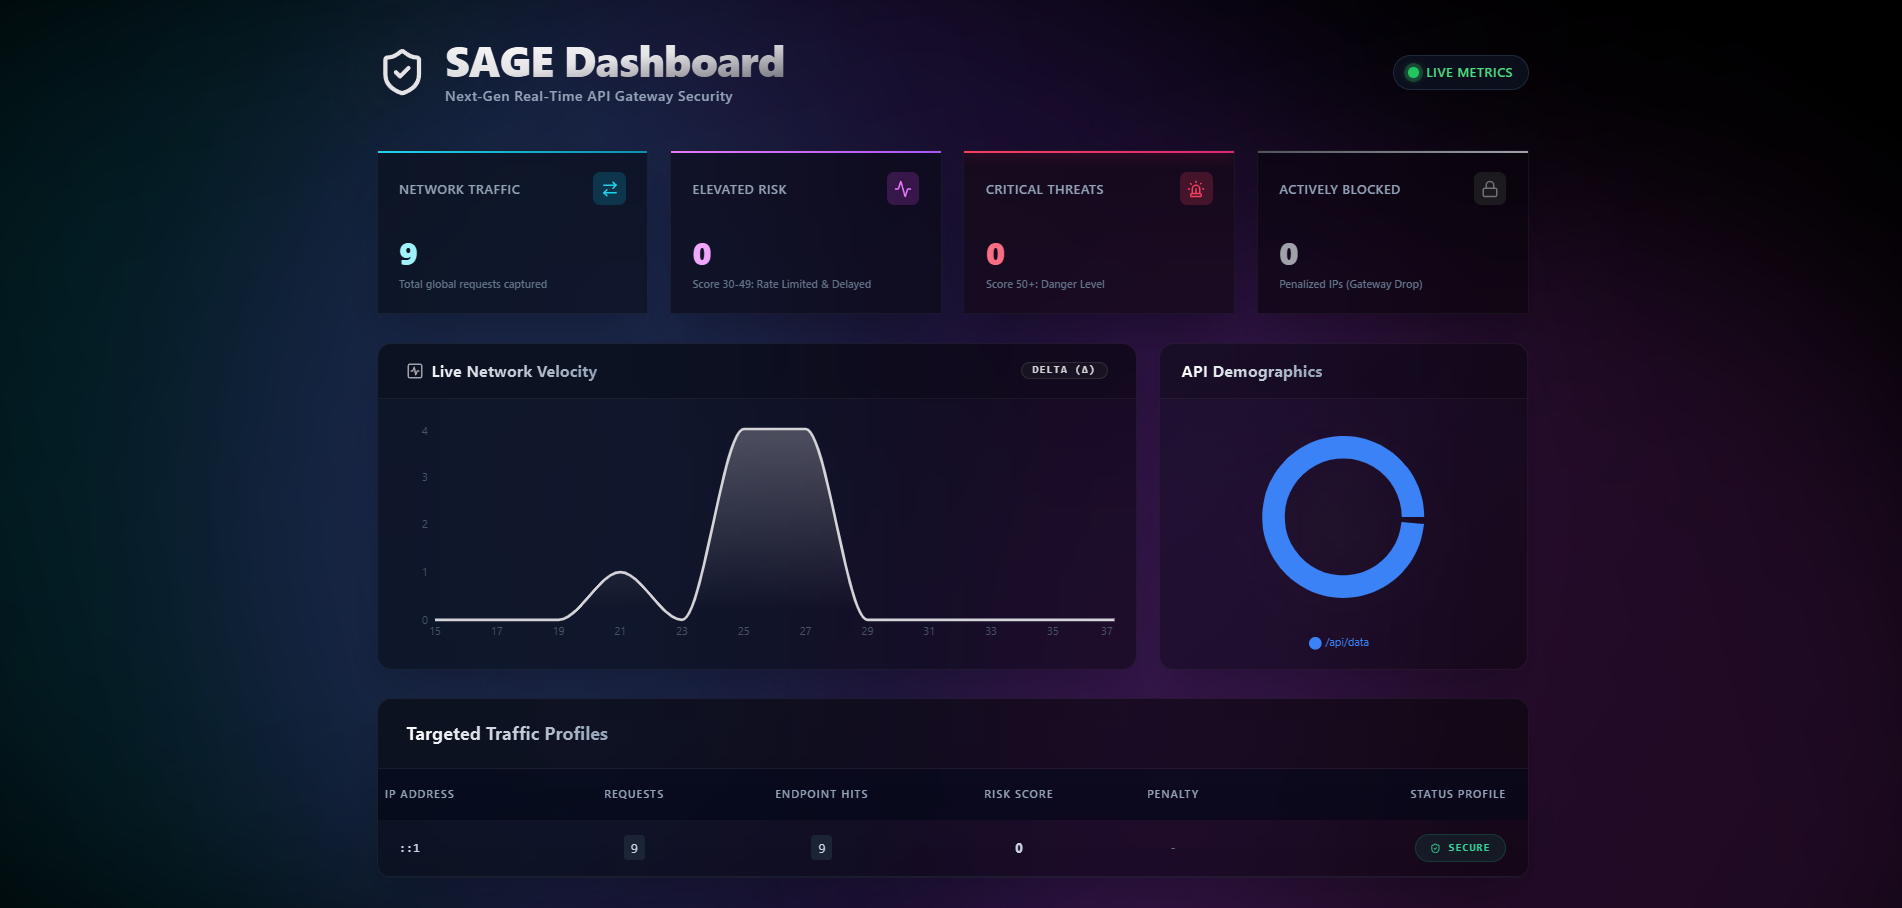
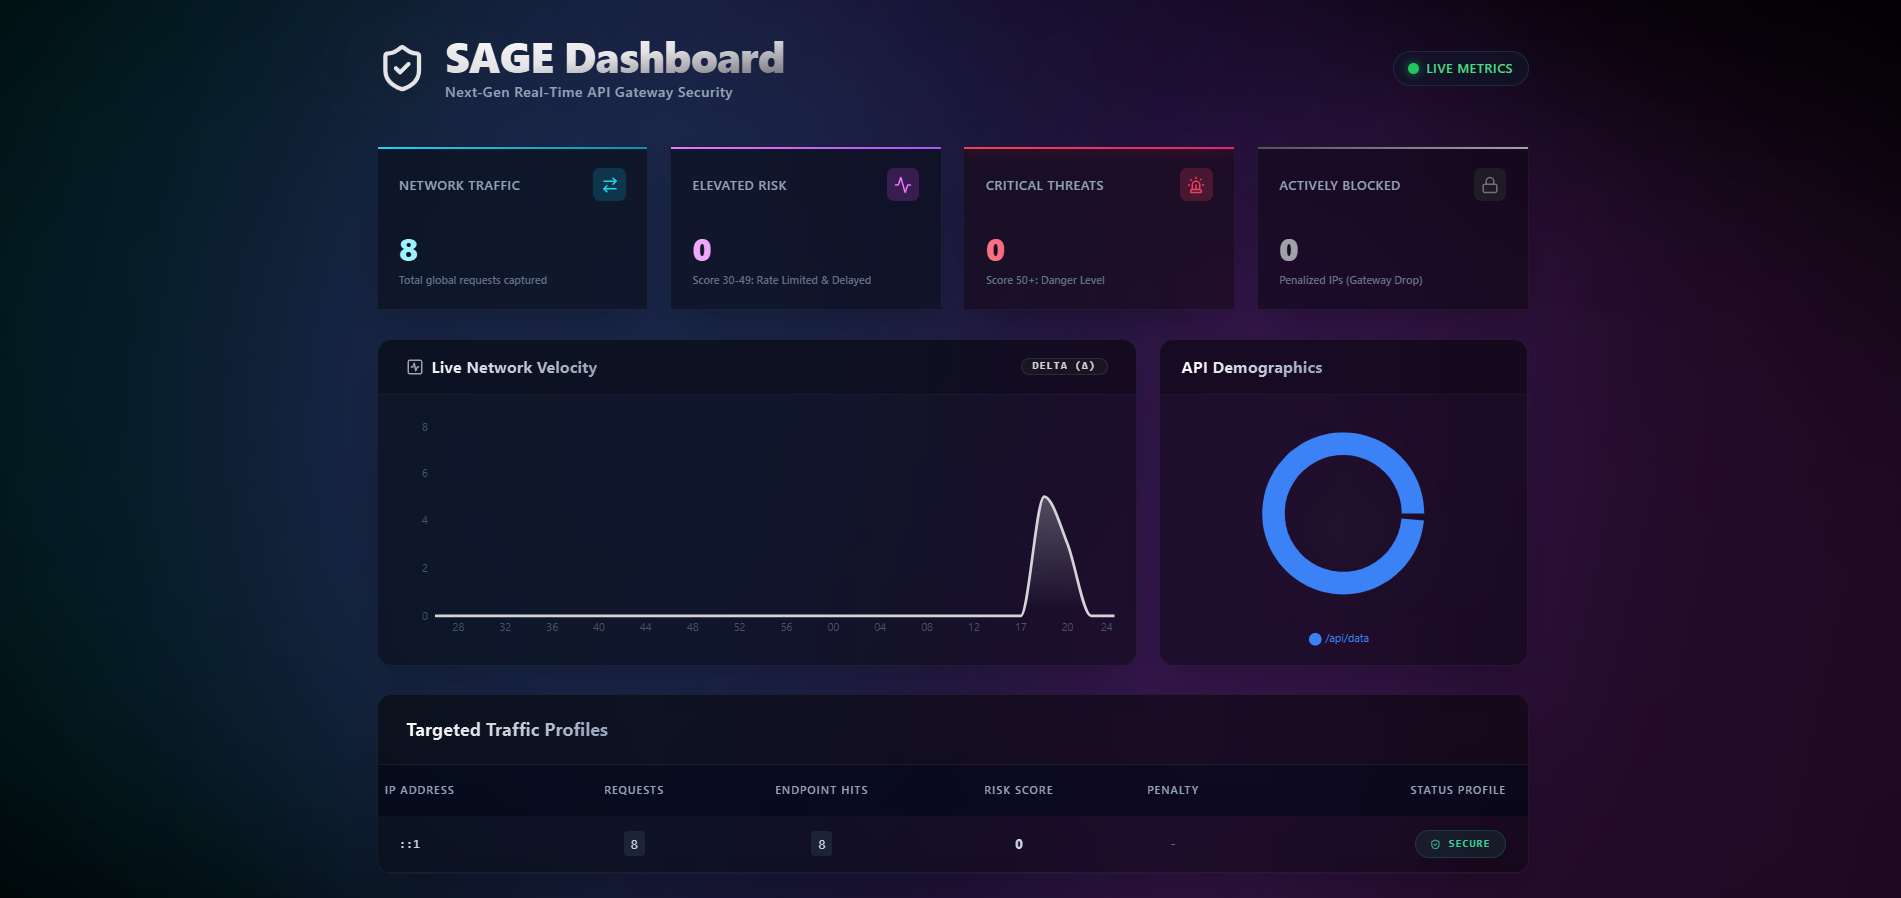
Added new files for README and traffic testing

diff --git a/test_traffic.js b/test_traffic.js
@@ -1,0 +1,40 @@
+const http = require('http');
+
+const endpoints = [
+    '/api/data',
+    '/api/unknown',
+    '/api/test',
+    '/'
+];
+
+const sendRequest = () => {
+    const endpoint = endpoints[Math.floor(Math.random() * endpoints.length)];
+    const options = {
+        hostname: 'localhost',
+        port: 3000,
+        path: endpoint,
+        method: 'GET',
+        headers: {
+            'User-Agent': Math.random() > 0.8 ? 'bot-tester' : 'Mozilla/5.0'
+        }
+    };
+
+    const req = http.request(options, (res) => {
+        console.log(`Request to ${endpoint} - Status: ${res.statusCode}`);
+    });
+
+    req.on('error', (e) => {
+        console.error(`Problem with request: ${e.message}`);
+    });
+
+    req.end();
+};
+
+console.log("🚀 Starting traffic simulation on port 3000...");
+console.log("Press Ctrl+C to stop.");
+
+// Send a request every 200ms
+setInterval(sendRequest, 2000);
+setInterval(sendRequest, 1500);
+setInterval(sendRequest, 1000);
+

diff --git a/README.md b/README.md
@@ -1,6 +1,6 @@
 <div align="center">
 
-<img src="docs/assets/logo1.png" alt="SAGE API Logo" width="180"/>
+<img src="docs/assets/logo.png" alt="SAGE API Logo" width="180"/>
 
 # SAGE API Gateway
 **S**ecurity • **A**nalytics • **G**ateway • **E**ngine
